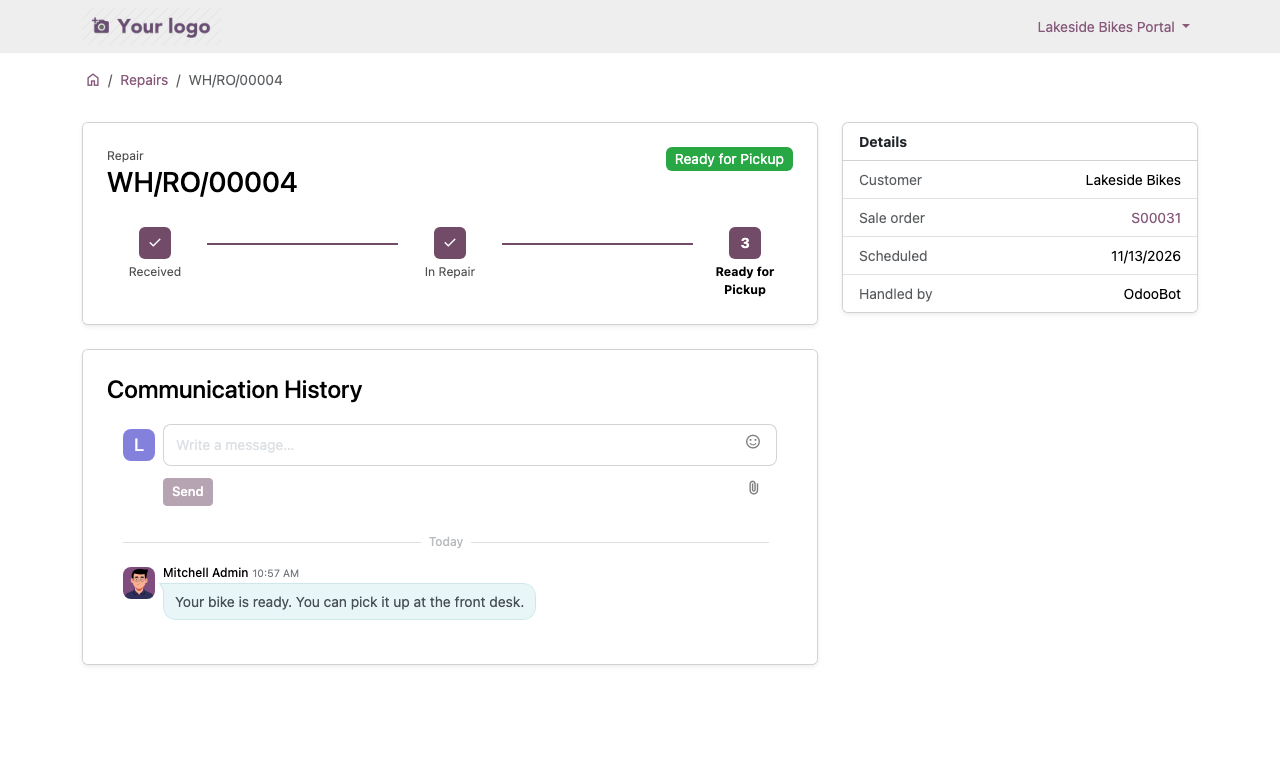
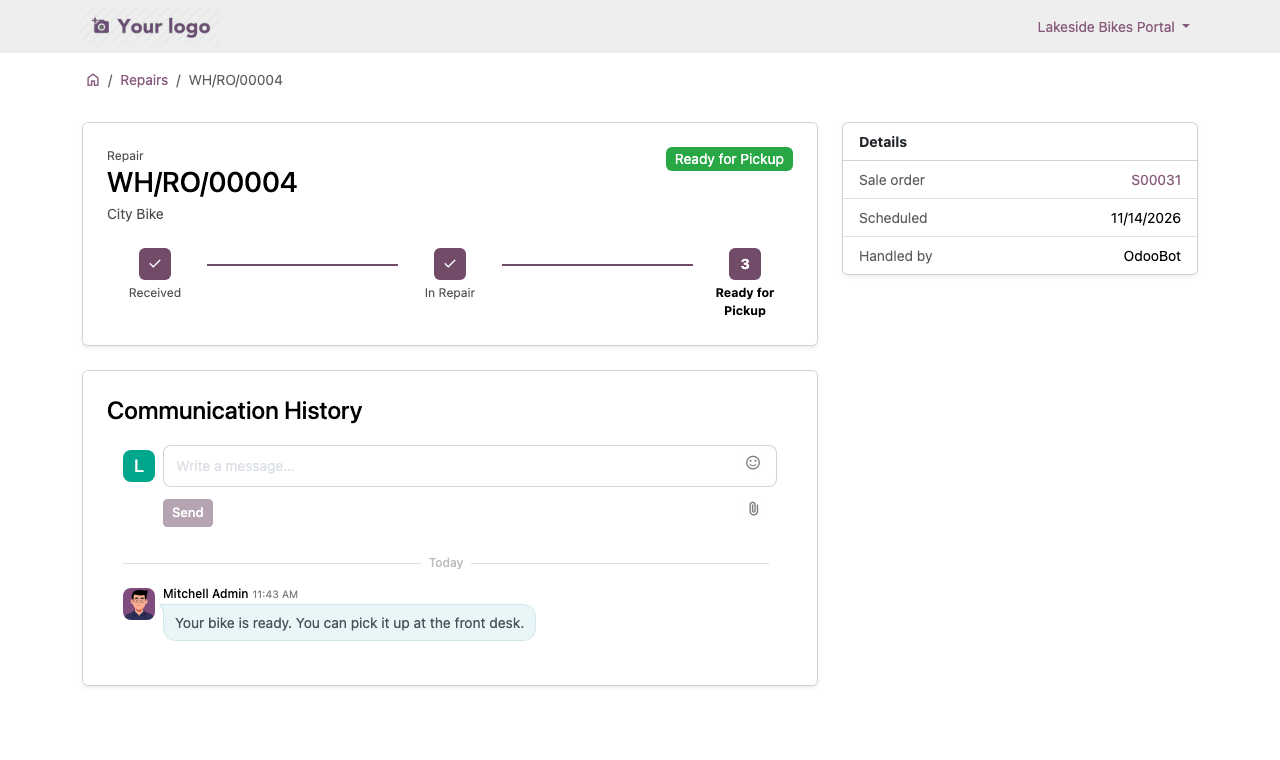
Repair Job Costing 20.0.1.1.2: remove redundant code (499 lines)
Portal details card no longer repeats customer and product; stage sequences and
allow_timesheets left at their defaults; simpler Ready for Pickup check and
breadcrumb. No change in behavior.

diff --git a/repair_job_costing/models/repair_order.py b/repair_job_costing/models/repair_order.py
@@ -49,11 +49,9 @@ class RepairOrder(models.Model):
         ready = self.env.ref('repair_job_costing.repair_stage_ready_for_pickup', raise_if_not_found=False)
         if ready and vals.get('stage_id') == ready.id:
             # Moving a repair to Ready for Pickup ends it, as End Repair does.
-            repairs = self.filtered(lambda r: r.state in ('draft', 'confirmed'))
             if self.filtered(lambda r: r.state == 'cancel'):
                 raise UserError(self.env._("A cancelled repair can't be ready for pickup."))
-            if not repairs:
-                return res
+            repairs = self.filtered(lambda r: r.state in ('draft', 'confirmed'))
             repairs._action_repair_confirm()
             repairs.action_assign()
             if repairs.move_ids.filtered(lambda m: m.state != 'cancel' and m.quantity != m.product_uom_qty):

diff --git a/repair_job_costing/__manifest__.py b/repair_job_costing/__manifest__.py
@@ -1,6 +1,6 @@
 {
     'name': 'Repair Job Costing',
-    'version': '20.0.1.1.1',
+    'version': '20.0.1.1.2',
     'category': 'Supply Chain/Inventory',
     'summary': 'Job costing, stages, photos and a customer portal page for repairs sold on sale orders',
     'description': """
